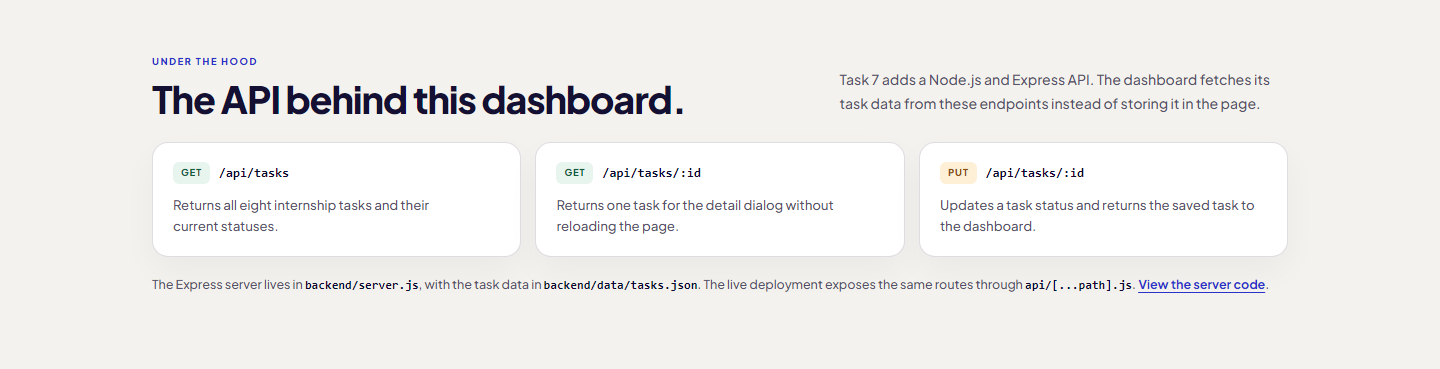
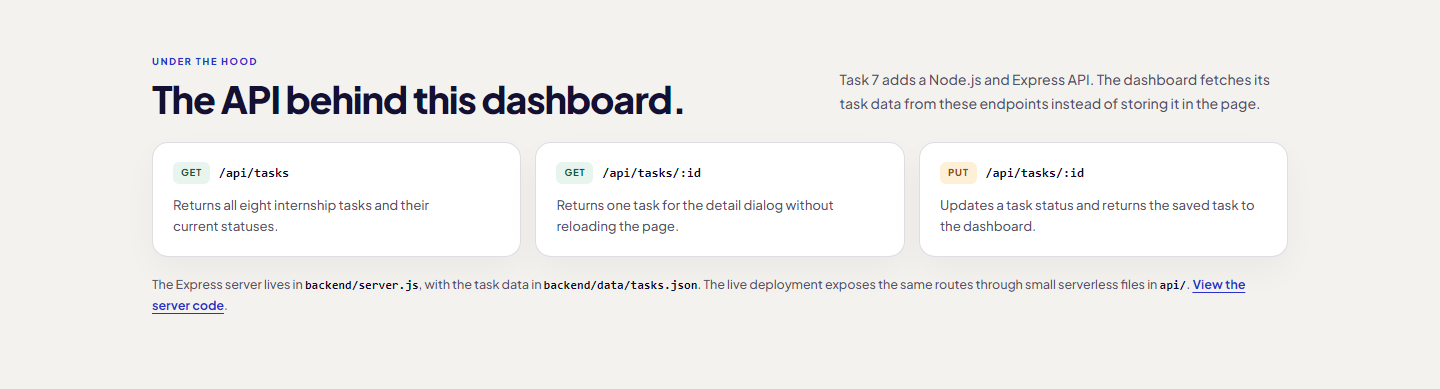
Refresh Task 7 screenshots and deployment notes

diff --git a/README.md b/README.md
@@ -148,7 +148,7 @@ Deployed via Vercel: https://techbridge-task-1-plum.vercel.app
 
 The Programs page is available at `/programs.html`, the Internship Tasks page at `/tasks.html`, the Interactive Internship Roadmap at `/roadmap.html`, the Challenge Hub at `/challenges.html` and the Intern Dashboard at `/dashboard.html` on the same deployment.
 
-The same deployment serves the API through small route files in `api/`, so the live dashboard can use relative `/api/tasks` requests without a separate API host. Serverless functions have a read-only filesystem and no shared database, so live status changes are kept in memory for the life of a warm function instance and reset after a cold start. The local Express server is the version that writes changes back to `backend/data/tasks.json`.
+The same deployment serves the API through small route files in `api/`, so the live dashboard can use relative `/api/tasks` requests without a separate API host. Serverless functions have a read-only filesystem and no shared database, so live status changes are kept in memory for the life of a warm function instance and may reset when a different instance or a cold start handles a later request. The local Express server is the durable version: it writes changes back to `backend/data/tasks.json`, so they survive a restart.
 
 ## Task 7 screenshots
 
